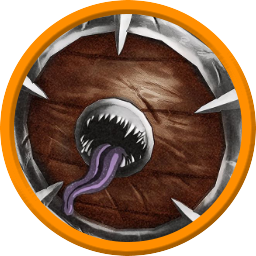
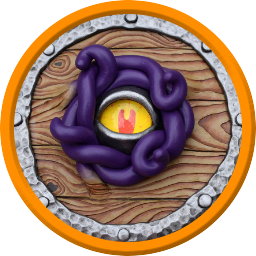
mimic token done, session over, we will be lvling up to 4, goodbye moonlight meditant you were such fun bs but so broken, remake with feral heart and no shifting feats either lol

diff --git a/characters/Rosewood/Rosewood_1_Moonlight/cheatsheet.md b/characters/Rosewood/Rosewood_1_Moonlight/cheatsheet.md
@@ -13,6 +13,24 @@
 
 ## Mimic Friend
 - https://www.d20pfsrd.com/bestiary/monster-listings/aberrations/mimic/
+- Forms
+    - several ornate statutes
+    - several ornate medium-sized urns and vases
+    - ornate tower shield for large character
+    - Thyrm's buckler
+    - throne of elderon
+    - the green mother's staff (basketball sized black star sapphire on top)
+        - https://pathfinderwiki.com/wiki/The_Green_Mother
+    - ornate grandfather clock
+    - complicated music box (think Shrek)
+    - 1 person carriage
+    - Bell of Mercy https://www.d20pfsrd.com/magic-items/artifacts/minor-artifacts/bell-of-mercy
+    - ornate medium armor (solid)
+    - ceremonial [only one armor mod you silly goose] medium fullplate armor (technically wearable)
+        - burnished, deflecting, double plate, jarring, razored, slumbering, vitalguard
+    - starfountain firework https://www.d20pfsrd.com/equipment/weapons/Alchemical-weapons/#TOC-Starfountain-Firework
+    - several ice sculptures
+    - medium wind chimes
 
 ## Psionics
 - Power Points (max 2): OO
@@ -46,6 +64,9 @@
 
 ## Phylocruxes (Sp) (CL 3)
 - 3/day - *cure light wounds* (1d8+3)
+- rules
+    - No verbal, somatic, focus, material components
+    - Provokes AoO
 
 ### Grappling rules
 - -4 if both hands not free

diff --git a/characters/Rosewood/Rosewood_1_Moonlight/notes.md b/characters/Rosewood/Rosewood_1_Moonlight/notes.md
@@ -8,16 +8,16 @@
 ## Achievement Feat Progress
 ### History of Scars
 - take 1000 dmg, subtract 1/5th magic healing
-- damage taken: 171
-- magical healing: 80
+- damage taken: 243
+- magical healing: 128
 - -2 Cha-based skill checks, inc nat armor by 2
 
 ### Mouse Stomper
-- kill 20 creatures 2+ sizes smaller, progress: 16
+- kill 20 creatures 2+ sizes smaller, progress: 17
 - full-attack vs 2+ size smaller, extra melee at full BAB
 
 ### Relentless Butcher
-- confirm 50 crits, progress: 10
+- confirm 50 crits, progress: 11
 - crit target Fort DC (10 + Str or Dex mod) or stunned 1 rd
 
 ### Enemy of Good
